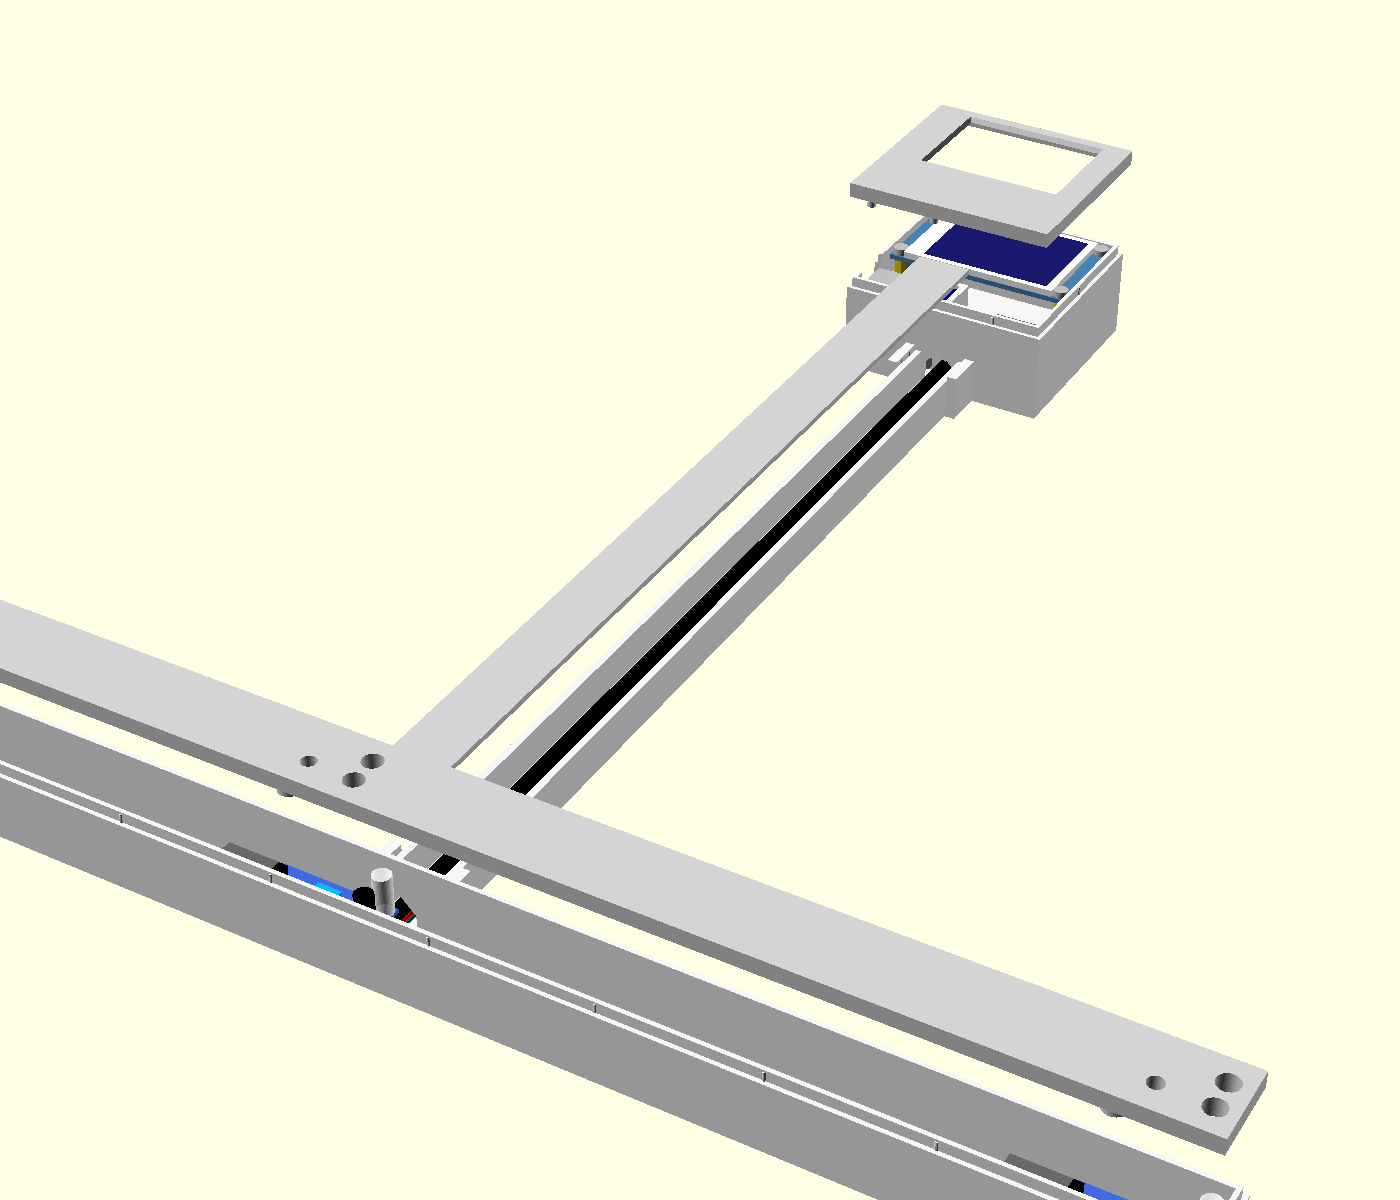
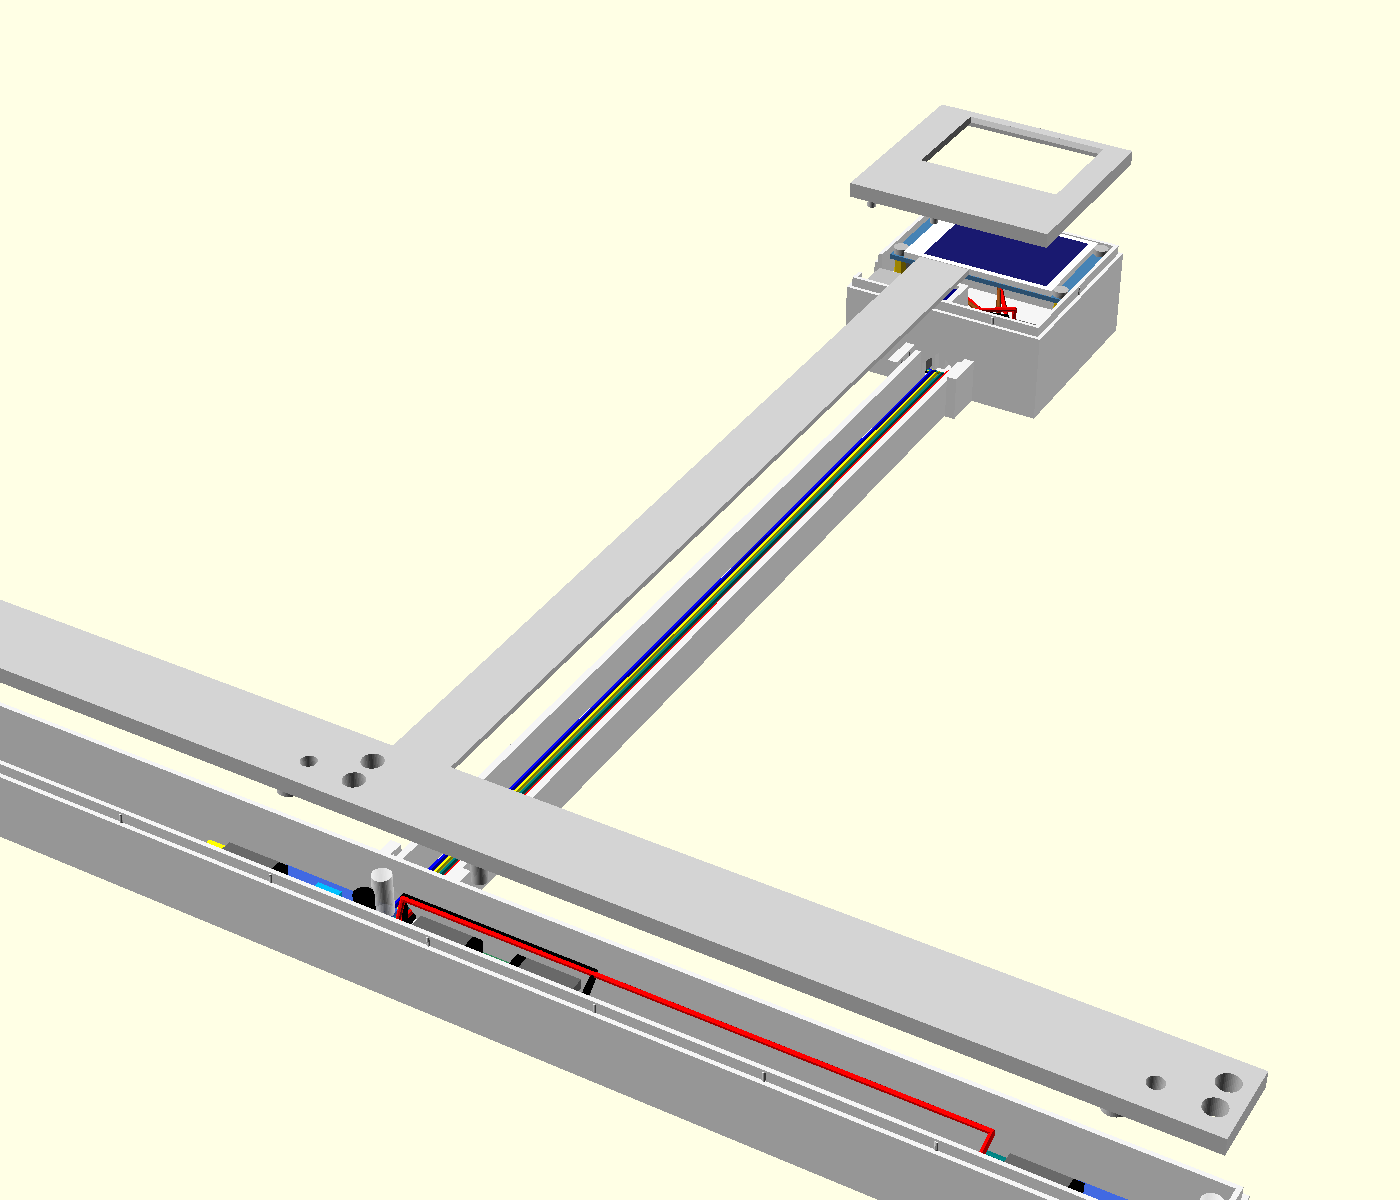
feat: case v2 spider board, 5-wire mast, routed wires, tighter covers
- Add a holder for the "spider" board (2x5 right-angle pins) in the bar's
  center segment, so sensor power splits in the bar and only 5 wires
  (3 signals, 3V3, GND) go up the mast
- Draw every wire along its planned route in preview
- Tighten cover fit after the first sensor_test print was loose:
  cover_clr 0.2 -> 0.1, rib 0.3 -> 0.35, crush ribs every 20 mm
- List all PART options next to PART
- Rename the original power board to the "Porcupine board"

diff --git a/case/v2/README.md b/case/v2/README.md
@@ -8,9 +8,27 @@ The case has three parts:
 
 | Part | What it is |
 |---|---|
-| **Sensor bar** | About 417 × 21.4 × 24.4 mm, in 3 segments that lock together with dovetails. It holds the three FC-51 IR sensors, 203.2 mm apart, the same spacing as the old case |
-| **Mast** | About 16 × 13.6 mm, in 2 printed pieces. It runs from the bar up to the head and carries the 9 wires in a channel with a snap-on strip |
-| **Head** | About 63 × 61 × 32 mm. It holds the LCD, with the ESP32-S3-Zero and the power board below it. The USB-C opening faces left, toward the outlet |
+| **Sensor bar** | About 417 × 21.4 × 24.4 mm, in 3 segments that lock together with dovetails. It holds the three FC-51 IR sensors, 203.2 mm apart, the same spacing as the old case, plus the **spider board** that splits power to them |
+| **Mast** | About 16 × 13.6 mm, in 2 printed pieces. It runs from the bar up to the head and carries **5 wires** (3 sensor signals, 3V3, GND) in a channel with a snap-on strip |
+| **Head** | About 63 × 61 × 32 mm. It holds the LCD, with the ESP32-S3-Zero and the Porcupine board below it. The USB-C opening faces left, toward the outlet |
+
+## Wiring
+
+Power is split in two places, so only 5 wires go up the mast and no lever connectors are needed. The LCD runs on 3.3 V, and nothing uses the ESP32's 5V pin.
+
+| Board | Where | 3V3 rail | GND rail |
+|---|---|---|---|
+| **Porcupine board** (2 × 6 straight pins) | Head, right of the ESP32 | ESP32 3V3, LCD VCC (red), mast 3V3 (3 spare) | ESP32 GND, LCD GND (brown), mast GND (3 spare) |
+| **Spider board** (2 × 5 right-angle pins, one row per rail) | Bar, right of the center sensor | Left row: mast 3V3, the 3 sensors' VCC (1 spare) | Right row: mast GND, the 3 sensors' GND (1 spare) |
+
+| Wire | From | To |
+|---|---|---|
+| Sensor OUTs (blue, yellow, teal) | Medium, Dark, Decaf sensors | Up the mast to GP4, GP5, GP6 |
+| Sensor VCC / GND | Each sensor | Spider board, left row / right row |
+| 3V3 / GND | Porcupine board | Down the mast to the spider board |
+| LCD ribbon | LCD header | GP7–12 (as in [docs/esp32-wiring.svg](../../docs/esp32-wiring.svg)), with VCC and GND to the Porcupine board |
+
+The preview draws every wire along this route. See the wiring renders below.
 
 **How everything is built:**
 - **Bodies:** each body has a flat, solid back for the Velcro strips and is open to the front. A cover closes the front.
@@ -49,7 +67,9 @@ These follow the office_ac_controller approach: print the parts that are easy to
    - the cover presses on with friction and its ring clamps the board;
    - a screwdriver reaches the sensitivity screw through the tuning hole.
 2. **`head_cover`** (small and quick): hold it over the LCD, with the LCD resting on a flat surface glass-up. Check that the window frames the lit image and that the screw-head reliefs line up.
-3. **`esp_test`:** the bottom strip of the head body. Check that the ESP32 drops onto its two end supports, with the USB-C at the left wall, and that the power board snaps between its corner fences.
+3. **`esp_test`:** the bottom strip of the head body. Check that the ESP32 drops onto its two end supports, with the USB-C at the left wall, and that the Porcupine board snaps between its corner fences.
+
+The spider board's holder isn't in any test piece. It sits between the bar's walls (0.25 mm to spare on each side), on four corner feet, between two end stops. The center cover has a post that presses on its empty middle.
 
 Then print the rest.
 
@@ -60,22 +80,29 @@ Then print the rest.
    - **The left sensor** is turned 180° from the other two.
    - Plug in the jumpers: OUT, GND, VCC.
 2. **Bar:** slide the bar segments together, pressing the center segment's dovetail tabs into the end segments' notches from the front.
-3. **Sensor wires:** run each sensor's three wires along the bar to the center. They can pass behind the boards, where there's a 5 mm channel, or in front of them. Then go up through the opening in the bar's top wall.
+3. **Spider board:** set it between its stops, just right of the center sensor, 3V3 row on the left.
+   - Plug each sensor's VCC into the left row and its GND into the right row.
+   - Run each OUT to the center and up through the opening in the bar's top wall.
+   - Plug the mast's 3V3 and GND into the spider's first pin on each side.
+   - Wires can pass behind the sensor boards (a 5 mm channel) or in front of them, and over the spider board.
 4. **Mast:** join the two pieces at their dovetail.
    - Seat the lower end between the cheeks on the bar's top and the upper end between the cheeks under the head.
-   - Lay the 9 wires in the channel and press on the two strips.
+   - Lay the 5 wires in the channel and press on the two strips.
 5. **Head:** connect the wires inside:
    - Sensor OUTs to GP4–6.
-   - Sensor VCC and GND to the power board's rails.
+   - The mast's 3V3 and GND to the Porcupine board, along with the ESP32's 3V3 and GND.
    - The LCD ribbon to GP7–12, as in [docs/esp32-wiring.svg](../../docs/esp32-wiring.svg).
 6. **Boards in the head:**
    - Set the ESP32 on its supports, USB-C into the left wall's opening.
-   - Press the power board between its fences.
+   - Press the Porcupine board between its fences.
    - Place the LCD glass-forward onto its four posts; the pins go into the standoffs.
 7. **Close up:** press on the head cover, then the three bar covers.
 8. **Mount:** stick Velcro to the backs of the bar segments and the head. The bar is 21.4 mm tall and `velcro_w` is 20 mm.
 
-**Wire lengths:** the center sensor's wires need about 35 cm to reach the head. The end sensors' wires need about 55 cm (203 mm along the bar plus the mast).
+**Wire lengths:**
+- **Each OUT:** about 35 cm from the center sensor, about 55 cm from an end sensor.
+- **Sensor VCC and GND:** only to the spider board, about 5 cm from the center sensor and 20 cm from an end sensor.
+- **The mast's 3V3 and GND:** about 35 cm.
 
 ## Previewing with the parts inside
 
@@ -90,6 +117,7 @@ The boards, LEDs, jumpers and wires are drawn only in preview (F5) when `SHOW_PA
 | | |
 |---|---|
 | ![Head, open](renders/head_open.png) | ![Sensor, open](renders/sensor_open.png) |
+| ![Bar center, open](renders/bar_center_open.png) | ![Head wiring](renders/head_wiring.png) |
 | ![Exploded](renders/exploded.png) | ![Head, closed](renders/head_closed.png) |
 
 ## Settings worth knowing
@@ -100,7 +128,7 @@ The boards, LEDs, jumpers and wires are drawn only in preview (F5) when `SHOW_PA
 | `velcro_w` | 20 | The bar is at least this tall |
 | `hood` | 3 | How far the LED tips sit behind the front face. The bores act as hoods against side reflections |
 | `clr` | 0.3 | General clearance per side |
-| `cover_clr`, `rib` | 0.2, 0.3 | Cover fit. Too tight: lower `rib`. Too loose: raise it |
+| `cover_clr`, `rib`, `rib_pitch` | 0.1, 0.35, 20 | Cover fit: the gap between the lip and the body, how far the crush ribs stand out, and their spacing. Too tight: lower `rib`. Too loose: raise it, or lower `rib_pitch` |
 | `dt_clr` | 0.15 | Dovetail clearance per side |
 | `lcd_post_gap` | 0 | Raise it if the head cover won't close over the LCD |
 | `win_margin` | 0.6 | Screen window margin around the lit image |
@@ -121,10 +149,19 @@ The boards, LEDs, jumpers and wires are drawn only in preview (F5) when `SHOW_PA
 | LCD lit image | 40.8 × 30.6 mm, centered 1.7 mm right of the PCB's center (away from the header) | Datasheet size; photo for position | ±0.7 mm. Check with the `head_cover` test print |
 | LCD holes / standoffs | 2.4 and 2.75 mm in from the edges; standoffs 6 mm long | Photo; user | ±0.5 mm |
 | LCD header | Straight pins pointing back, 2.3 mm from the left edge (front view) | Photo | ±0.5 mm |
-| Behind the LCD, ESP32 and power board | 24 mm for header, jumpers and bend | User | High |
+| Behind the LCD, ESP32 and Porcupine board | 24 mm for header, jumpers and bend | User | High |
 | ESP32-S3-Zero | 18 × 23.5 × 1.7 mm; USB-C 1 mm past the edge and 3 mm tall | Calipers | High |
-| Power board | about 15 × 20 mm | User | ±0.5 mm |
+| Porcupine board | about 15 × 20 mm | User | ±0.5 mm |
+| Spider board | 20 × 16.1 × 1.5 mm. Right-angle pin rows 4 mm in from each end; 7 mm from the solder's bottom to the top of the pins' bend; pins 8 mm long past the bend | User | High (the 1 mm solder height is assumed) |
 | Mat grid square | 7.9 mm | office_ac_controller (ruler) | High |
+
+## Test print results
+
+**`sensor_test`, first print (0.2 mm gap, 0.3 mm ribs every ~45 mm):**
+- **Worked:** the holes line up with the LEDs and the sensitivity screw, and the post's pin holds the board.
+- **Too loose:** the cover slid around. The test piece had only one rib per side because of the 45 mm spacing.
+- **Fix:** `cover_clr` 0.2 → 0.1, `rib` 0.3 → 0.35 (0.25 mm interference), and a rib every 20 mm (`rib_pitch`) on every edge, including the head's ends. Reprint `sensor_test` to check.
+- **Alignment:** the cover and body should line up end to end. The test piece has no lip at its cut ends, so a loose cover can slide lengthwise. The full bar's end segments have lips at their outer ends.
 
 ## Open questions for the first prints
 

diff --git a/docs/HARDWARE.md b/docs/HARDWARE.md
@@ -88,7 +88,7 @@ This test reuses every wire from the current Nano build (see the next section) a
 - **Display:** the ribbon stays plugged into the LCD.
 - **Sensor signals:** the three single wires move to GP4–6.
 - **Power:**
-  - The board has only one 3V3 pin and one GND pin, so power goes through the **power distribution board** (below).
+  - The board has only one 3V3 pin and one GND pin, so power goes through the **Porcupine board** (below).
   - One female-to-female jumper runs from each ESP32 power pin to its rail, and everything that needs power plugs into the rail.
   - The white sensor wire moves from the Nano's 5V to the **3V3 rail**.
 
@@ -109,7 +109,19 @@ This test reuses every wire from the current Nano build (see the next section) a
 
 Expected draw on 3V3 is roughly 100–150 mA (backlight plus three sensors), well within the regulator's rating.
 
-### Power distribution board
+### Spider board (case v2)
+
+In case v2, sensor power is split in the bar instead of the head, so only 5 wires go up the mast: 3 signals, 3V3 and GND.
+- **What it is:** a second helper board in the bar, the "spider board".
+- **Size:** 20 × 16.1 × 1.5 mm.
+- **Pins:** two rows of 5 right-angle pins, one row per rail, pointing out of opposite ends.
+- **3V3 row:** the mast's 3V3 plus each sensor's VCC.
+- **GND row:** the mast's GND plus each sensor's GND.
+- **The Porcupine board** in the head then feeds only the ESP32, the LCD and the mast.
+
+See [case/v2/README.md](../case/v2/README.md).
+
+### Porcupine board (power distribution)
 
 This is a small helper board that turns the ESP32's single 3V3 pin and single GND pin into two 6-pin rails.
 - **Construction:** a spare piece of prototype board, about 15 × 20 mm, with two mounting holes.
